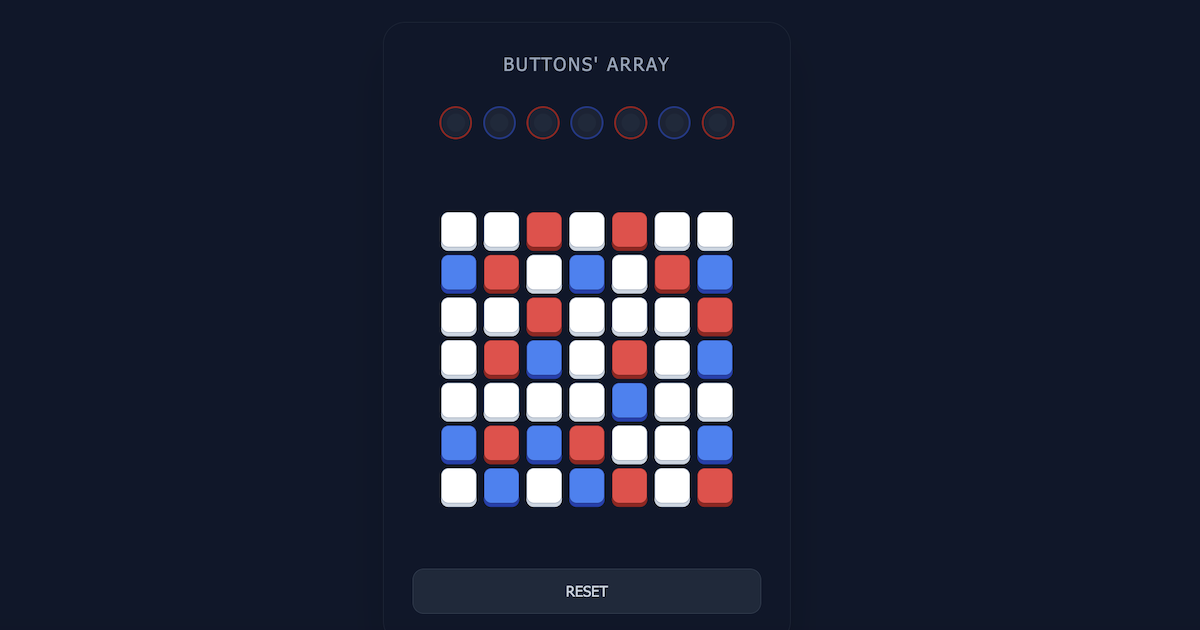
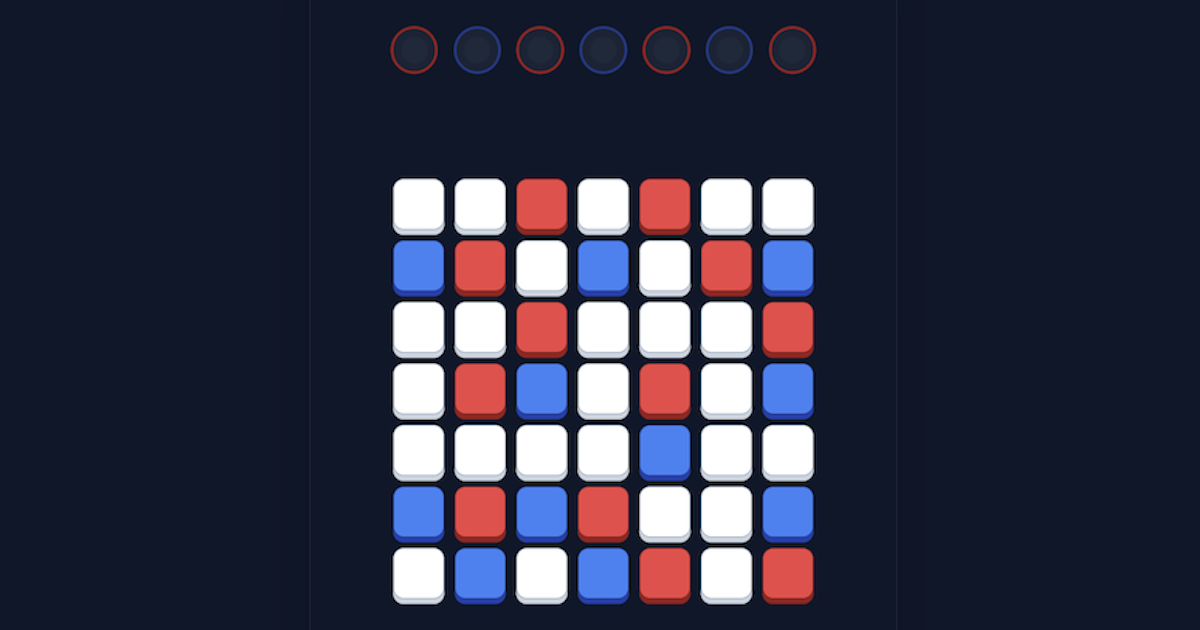
Add files via upload

diff --git a/puzzle/uchunazo/buttons_array/content.html b/puzzle/uchunazo/buttons_array/content.html
@@ -110,12 +110,12 @@
             max-width: 280px;
         }
 
-        .share-btn-main, .share-choice-btn {
+        .share-btn-main {
             display: inline-block;
             color: #fff;
             text-decoration: none;
-            font-size: 0.95rem;
-            padding: 12px 20px;
+            font-size: 1rem;
+            padding: 14px 24px;
             border-radius: 30px;
             background: rgba(255, 255, 255, 0.05);
             border: 1px solid rgba(255, 255, 255, 0.2);
@@ -124,15 +124,17 @@
             width: 100%;
             text-align: center;
             box-sizing: border-box;
+            font-weight: 600;
         }
 
-        .share-btn-main:hover, .share-choice-btn:hover {
+        .share-btn-main:hover {
             background: #000;
             border-color: #555;
             transform: scale(1.02);
+            box-shadow: 0 0 20px rgba(0,0,0,0.5);
         }
 
-        .choices-hidden {
+        .hidden {
             display: none !important;
         }
 
@@ -175,16 +177,11 @@
             <div id="status-container" class="absolute inset-0 flex flex-col items-center justify-center pointer-events-none">
                 <span id="status-msg" class="transition-all"></span>
                 
-                <!-- Share Section (Inside clear area) -->
-                <div id="shareSection" class="share-container choices-hidden pointer-events-auto">
-                    <button id="mainShareBtn" class="share-btn-main" onclick="showShareChoices()">喜びをXで共有する</button>
-                    <a id="shareClear" href="#" target="_blank" class="share-choice-btn choices-hidden">クリア報告のポスト</a>
-                    
-
-                    
-                    <a id="shareSupport" href="https://twitter.com/wondolphin/status/2033123604708360214" target="_blank" class="share-choice-btn choices-hidden">原ポストにいいね・リポスト</a>
-
-                    
+                <!-- Share Section (Direct link) -->
+                <div id="shareSection" class="share-container hidden pointer-events-auto">
+                    <a id="shareBtn" href="#" target="_blank" rel="noopener noreferrer" class="share-btn-main">
+                        喜びをXで共有する
+                    </a>
                 </div>
             </div>
         </div>
@@ -220,6 +217,7 @@
         const statusMsg = document.getElementById('status-msg');
         const resetBtn = document.getElementById('reset-btn');
         const shareSection = document.getElementById('shareSection');
+        const shareBtn = document.getElementById('shareBtn');
 
         function initGame() {
             currentGrid = INITIAL_GRID_DATA.map(row => [...row]);
@@ -227,8 +225,7 @@
             gameOver = false;
             statusMsg.textContent = "";
             statusMsg.className = "";
-            resetShareUI();
-            shareSection.classList.add('choices-hidden');
+            shareSection.classList.add('hidden');
             
             document.querySelectorAll('.confetti').forEach(el => el.remove());
             renderLamps();
@@ -318,15 +315,14 @@
                     renderLamps();
                     startConfetti();
                     
-                    // シェアボタンの準備
+                    // シェアリンクを直接ボタンにセット
                     const clearMsg = "Buttons' Array をクリアしました！";
-                    const baseParams = "%0A%23%E5%AE%87%E5%AE%99%E8%AC%8E%E3%80%80%23%E3%83%AB%E3%83%BC%E3%83%AB%E7%99%BA%E8%A6%8B%E5%9E%8B%E3%83%91%E3%82%BA%E3%83%AB%E3%80%80%40wondolphin%0Ahttps%3A%2F%2Fwondolphin.github.io%2Fpuzzle%2Fuchunazo%2Fsplitcolors%2Findex.html";
-                    const shareUrl = "https://twitter.com/intent/tweet?text=" + encodeURIComponent(clearMsg) + baseParams;
-                    document.getElementById('shareClear').href = shareUrl;
+                    const baseParams = "%0A%23%E5%AE%87%E5%AE%99%E8%AC%8E%E3%80%80%23%E3%83%AB%E3%83%BC%E3%83%AB%E7%99%BA%E8%A6%8B%E5%9E%8B%E3%83%91%E3%82%BA%E3%83%AB%E3%80%80%40wondolphin%0Ahttps%3A%2F%2Fwondolphin.github.io%2Fpuzzle%2Fuchunazo%2Fbuttons_array%2Findex.html";
+                    shareBtn.href = "https://twitter.com/intent/tweet?text=" + encodeURIComponent(clearMsg) + baseParams;
                     
-                    // 少し遅れてシェアボタンを表示
+                    // CLEAR!表示から少し遅れてシェアセクションを表示
                     setTimeout(() => {
-                        shareSection.classList.remove('choices-hidden');
+                        shareSection.classList.remove('hidden');
                     }, 1000);
                 } else {
                     statusMsg.textContent = "FAILED";
@@ -334,18 +330,6 @@
                 }
                 gameGrid.innerHTML = '';
             }
-        }
-
-        function showShareChoices() {
-            document.getElementById('mainShareBtn').classList.add('choices-hidden');
-            document.getElementById('shareClear').classList.remove('choices-hidden');
-            document.getElementById('shareSupport').classList.remove('choices-hidden');
-        }
-
-        function resetShareUI() {
-            document.getElementById('mainShareBtn').classList.remove('choices-hidden');
-            document.getElementById('shareClear').classList.add('choices-hidden');
-            document.getElementById('shareSupport').classList.add('choices-hidden');
         }
 
         function startConfetti() {